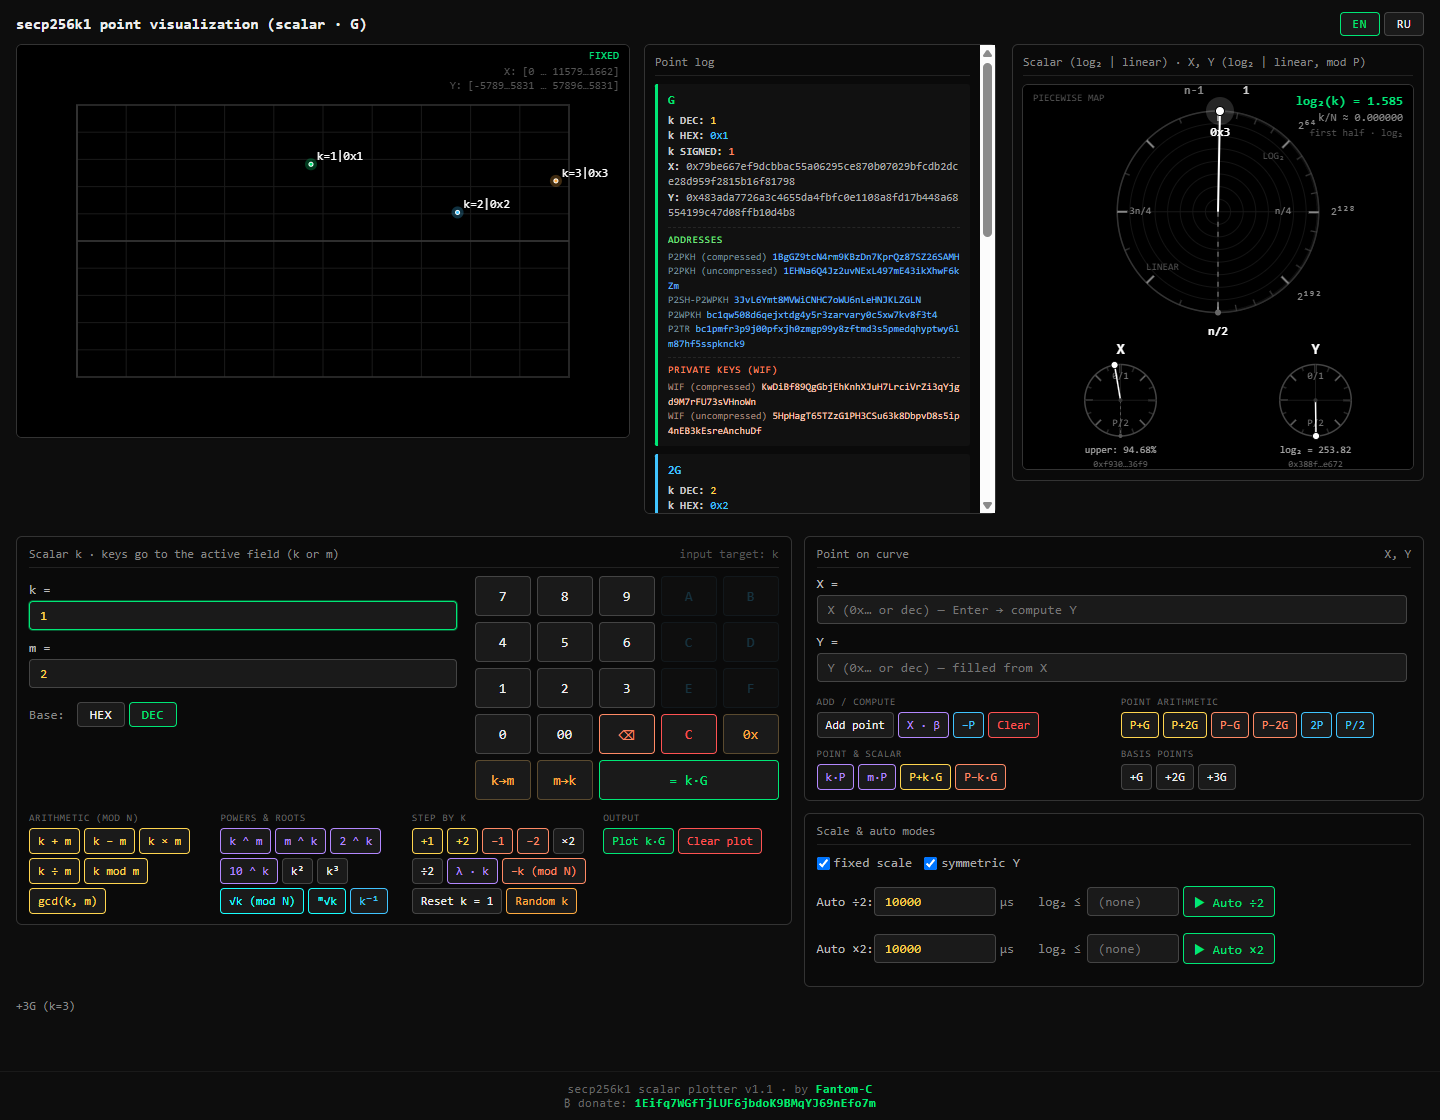
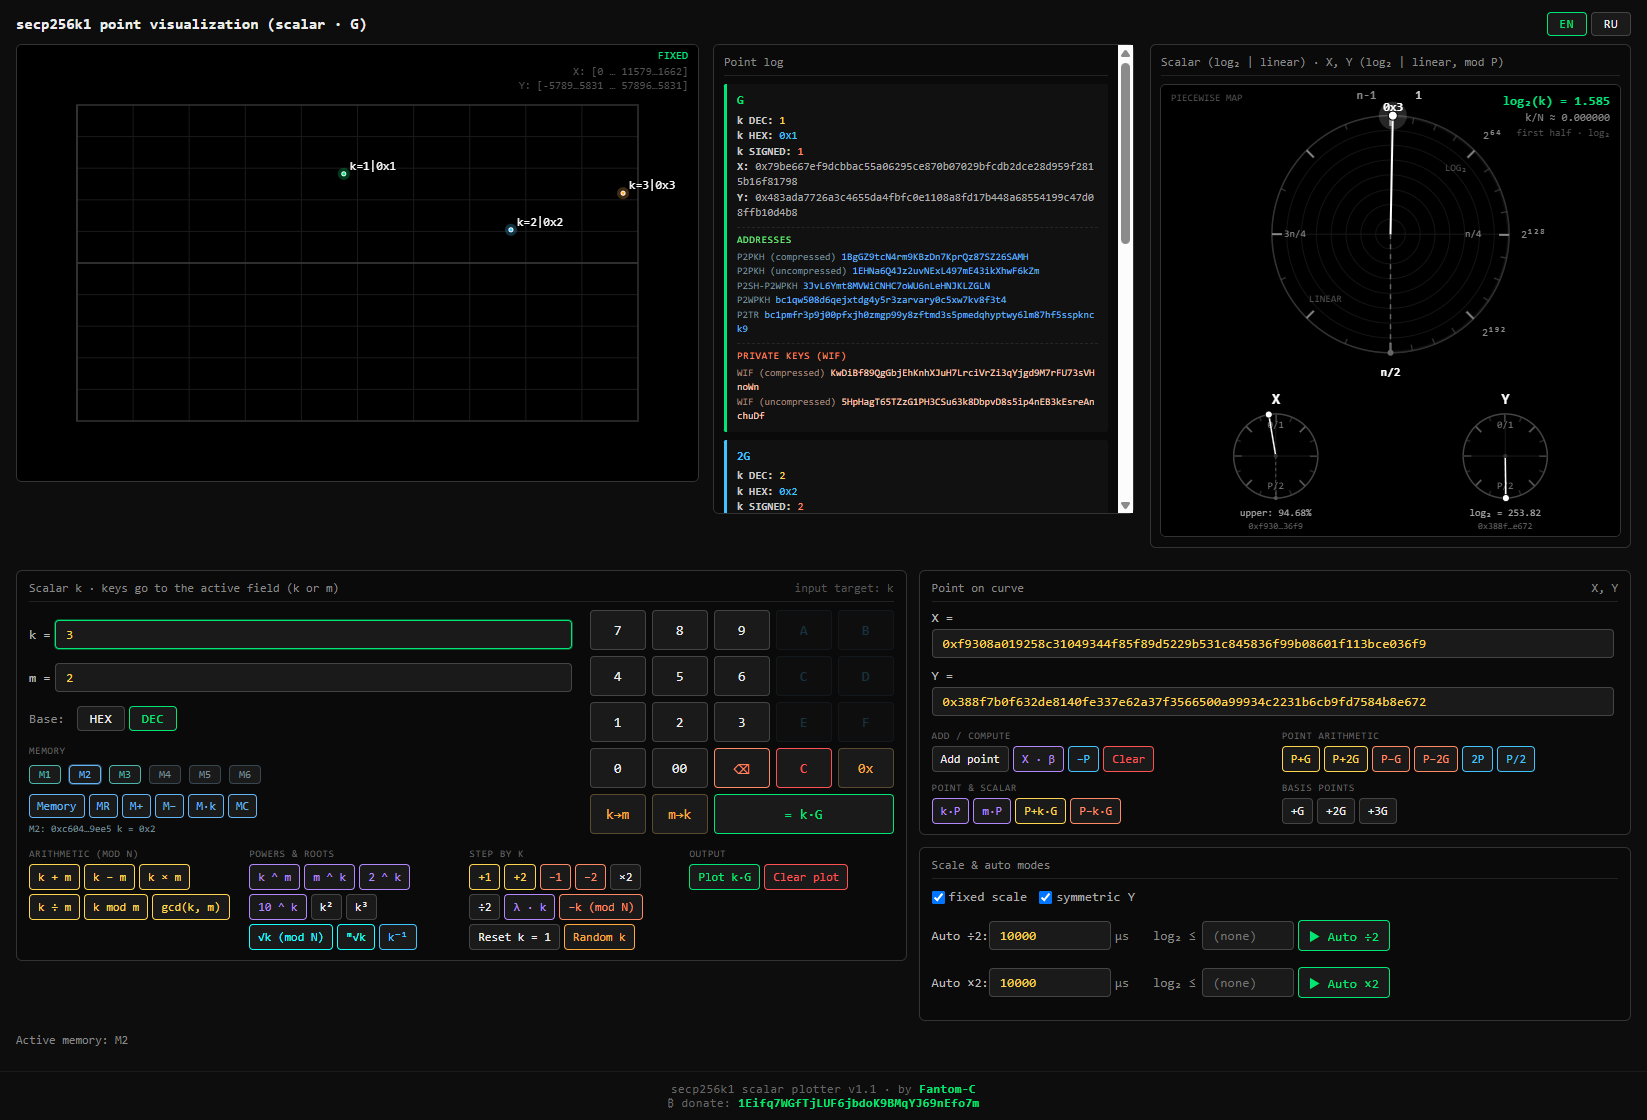
Add files via upload

diff --git a/index.html b/index.html
@@ -161,6 +161,23 @@
   }
   .op-buttons { display:flex; flex-wrap:wrap; gap:4px; }
   .op-buttons button { margin:0; padding:5px 8px; font-size:12px; }
+  .mem-group { margin-top:10px; }
+  .mem-slots { display:flex; gap:4px; flex-wrap:wrap; margin:0 0 6px; }
+  .mem-slot {
+    flex:0 0 auto; min-width:32px; padding:2px 6px; font-size:11px;
+    border-color:#37474f; color:#78909c;
+  }
+  .mem-slot.filled { border-color:#4db6ac; color:#4db6ac; }
+  .mem-slot.active {
+    border-color:#64b5f6; color:#64b5f6;
+    box-shadow:0 0 0 1px rgba(100,181,246,0.35);
+  }
+  .mem-buttons button { padding:4px 7px; }
+  .mem-info {
+    margin-top:4px; font-size:10px; line-height:1.4; color:#78909c;
+    word-break:break-all;
+  }
+  button.mem { border-color:#64b5f6; color:#64b5f6; }
   .op-grid {
     display:grid; grid-template-columns: repeat(4, minmax(0, 1fr));
     gap:10px 16px; margin-top:12px;
@@ -259,6 +276,27 @@
           <span class="unit">Основание:</span>
           <button id="baseHexBtn" class="base-btn" onclick="uiSetBase(16)">HEX</button>
           <button id="baseDecBtn" class="base-btn active" onclick="uiSetBase(10)">DEC</button>
+        </div>
+
+        <div class="op-group mem-group">
+          <span class="op-title">Память</span>
+          <div class="mem-slots" id="memSlots">
+            <button class="mem-slot active" onclick="uiMemSelect(0)">M1</button>
+            <button class="mem-slot" onclick="uiMemSelect(1)">M2</button>
+            <button class="mem-slot" onclick="uiMemSelect(2)">M3</button>
+            <button class="mem-slot" onclick="uiMemSelect(3)">M4</button>
+            <button class="mem-slot" onclick="uiMemSelect(4)">M5</button>
+            <button class="mem-slot" onclick="uiMemSelect(5)">M6</button>
+          </div>
+          <div class="op-buttons mem-buttons">
+            <button class="mem" onclick="uiMemStore()" title="Memory: сохранить точку текущего скаляра k·G в память и скопировать её в X/Y">Память</button>
+            <button class="mem" onclick="uiMemRecall()" title="MR: скопировать точку из памяти в поля X/Y">MR</button>
+            <button class="mem" onclick="uiMemAdd()" title="M+: прибавить k·G к точке в памяти и нарисовать результат (память не меняется)">M+</button>
+            <button class="mem" onclick="uiMemSub()" title="M−: вычесть k·G из точки в памяти и нарисовать результат (память не меняется)">M−</button>
+            <button class="mem" onclick="uiMemMulK()" title="M·k: умножить точку из памяти на текущий скаляр k и нарисовать результат (память не меняется)">M·k</button>
+            <button class="mem warn" onclick="uiMemClear()" title="MC: очистить память">MC</button>
+          </div>
+          <div id="memInfo" class="mem-info">M1: —</div>
         </div>
       </div>
       <div class="kp-pad" id="kpPad">
@@ -434,7 +472,7 @@
 <div id="status">Готово.</div>
 
 <div id="footer">
-  <div>secp256k1 scalar plotter v1.1 · by <b>Fantom-C</b></div>
+  <div>secp256k1 scalar plotter v1.2 · by <b>Fantom-C</b></div>
   <div class="donate">
     <span class="donate-label">₿ donate:</span>
     <span class="donate-addr"><b>1Eifq7WGfTjLUF6jbdoK9BMqYJ69nEfo7m<b></span>
@@ -1711,6 +1749,22 @@ const EN_STRINGS = {
     'Открыть на blockchain.com': 'Open on blockchain.com',
     'Приватные ключи (WIF)': 'Private keys (WIF)',
     'Приватный ключ — не показывайте никому': 'Private key — do not share with anyone',
+    'Память': 'Memory',
+    'Память: {1} = k·G': 'Memory: {1} = k·G',
+    'Активная память: {1}': 'Active memory: {1}',
+    'Ячейка памяти {1}': 'Memory slot {1}',
+    'Память {1} очищена': 'Memory {1} cleared',
+    'Память пуста': 'Memory slot is empty',
+    'Память очищена': 'Memory cleared',
+    'Скопировано из памяти в X/Y': 'Copied from memory to X/Y',
+    'M = ∞ (память пуста)': 'M = ∞ (memory cleared)',
+    'Memory: сохранить точку текущего скаляра k·G в память и скопировать её в X/Y': 'Memory: store the current scalar point k·G and copy it to X/Y',
+    'MR: скопировать точку из памяти в поля X/Y': 'MR: copy the memory point to the X/Y fields',
+    'M+: прибавить k·G к точке в памяти и нарисовать результат (память не меняется)': 'M+: add k·G to the memory point and draw the result (memory stays unchanged)',
+    'M−: вычесть k·G из точки в памяти и нарисовать результат (память не меняется)': 'M−: subtract k·G from the memory point and draw the result (memory stays unchanged)',
+    'M·k: умножить точку из памяти на текущий скаляр k и нарисовать результат (память не меняется)': 'M·k: multiply the memory point by the current scalar k and draw the result (memory stays unchanged)',
+    '(память не изменена)': '(memory unchanged)',
+    'MC: очистить память': 'MC: clear memory',
     'Нажмите, чтобы скопировать приватный ключ': 'Click to copy the private key',
     'Скопировано: {1}': 'Copied: {1}',
     'Не удалось скопировать': 'Copy failed',
@@ -1919,6 +1973,7 @@ function applyLanguage() {
     kpSetTarget(kpTargetEl || scalarIn);
     renderLegend(plotter.points);
     refreshAutoButtons();
+    updateMemButtons();
 }
 
 function setLang(lang) {
@@ -2154,6 +2209,13 @@ function uiRandomK() {
     } catch (e) { setStatus(t('Ошибка: ') + e.message); console.error(e); }
 }
 
+function findLoggedPointByX(x) {
+    for (let i = plotter.points.length - 1; i >= 0; i--) {
+        if (plotter.points[i].x === x) return plotter.points[i];
+    }
+    return null;
+}
+
 function uiXChanged() {
     const xs = document.getElementById('xIn').value.trim();
     if (!xs) return;
@@ -2163,26 +2225,47 @@ function uiXChanged() {
             setStatus(t('X должен быть в [0, P-1]'));
             return;
         }
-        const y = computeYFromX(x);
-        if (y === null) {
-            document.getElementById('yIn').value = '';
-            setStatus(
-                `X = 0x${x.toString(16)}\n` +
-                t('x³ + 7 не является квадратом mod P.') + '\n' +
-                t('Точки на кривой с таким X не существует.')
-            );
-            return;
+
+        const yEl = document.getElementById('yIn');
+        let yChoice = null;
+
+        if (yEl.value.trim()) {
+            try {
+                const yInput = plotter._parseBig(yEl.value.trim());
+                if (yInput >= 0n && yInput < P && mod(yInput * yInput, P) === mod(x * x * x + 7n, P)) {
+                    yChoice = yInput;
+                }
+            } catch (e) { /* ignore */ }
         }
-        const ySym = (y > P_HALF) ? (P - y) : y;
-        document.getElementById('yIn').value = '0x' + ySym.toString(16);
+
+        if (yChoice === null) {
+            const logged = findLoggedPointByX(x);
+            if (logged) {
+                yChoice = logged.y;
+            } else {
+                const y = computeYFromX(x);
+                if (y === null) {
+                    yEl.value = '';
+                    setStatus(
+                        `X = 0x${x.toString(16)}\n` +
+                        t('x³ + 7 не является квадратом mod P.') + '\n' +
+                        t('Точки на кривой с таким X не существует.')
+                    );
+                    return;
+                }
+                yChoice = (y > P_HALF) ? (P - y) : y;
+            }
+        }
+
+        yEl.value = '0x' + yChoice.toString(16);
 
         const label = `P${plotter.points.length + 1}`;
-        plotter.addPoint(x, ySym, label);
+        plotter.addPoint(x, yChoice, label);
         plotter.draw();
-        updateCircles(undefined, x, ySym);
+        updateCircles(undefined, x, yChoice);
         setStatus(
             `X = 0x${x.toString(16)}\n` +
-            t('Y = 0x{1}   (и −Y = 0x{2})', ySym.toString(16), (P - ySym).toString(16)) + '\n' +
+            t('Y = 0x{1}   (и −Y = 0x{2})', yChoice.toString(16), (P - yChoice).toString(16)) + '\n' +
             t('Точка на кривой. Автоматически добавлена как {1}.', label)
         );
     } catch (e) {
@@ -2351,6 +2434,141 @@ function uiPointHalf() {
     } catch (e) { setStatus(t('Ошибка: ') + e.message); console.error(e); }
 }
 
+const MEM_SLOT_COUNT = 6;
+const memSlots = new Array(MEM_SLOT_COUNT).fill(null);
+let memActive = 0;
+
+function memCurrent() { return memSlots[memActive]; }
+function memSlotLabel() { return 'M' + (memActive + 1); }
+
+function updateMemInfo() {
+    const el = document.getElementById('memInfo');
+    if (!el) return;
+    const slot = memCurrent();
+    const label = memSlotLabel();
+    if (!slot) { el.textContent = label + ': —'; return; }
+    const kStr = (slot.scalar === null || slot.scalar === undefined) ? '—' : shortHex(slot.scalar);
+    el.textContent = `${label}: ${shortHex(slot.x)}  k = ${kStr}`;
+}
+
+function updateMemButtons() {
+    const wrap = document.getElementById('memSlots');
+    if (!wrap) return;
+    [...wrap.children].forEach((btn, i) => {
+        btn.classList.toggle('active', i === memActive);
+        btn.classList.toggle('filled', !!memSlots[i]);
+        btn.title = t('Ячейка памяти {1}', i + 1);
+    });
+}
+
+function memSet(pt, scalar) {
+    memSlots[memActive] = pt
+        ? { x: pt.x, y: pt.y, scalar: (scalar === undefined ? null : scalar) }
+        : null;
+    updateMemInfo();
+    updateMemButtons();
+}
+
+function uiMemSelect(idx) {
+    if (idx < 0 || idx >= MEM_SLOT_COUNT) return;
+    memActive = idx;
+    updateMemInfo();
+    updateMemButtons();
+    setStatus(t('Активная память: {1}', memSlotLabel()));
+}
+
+function memCoords(pt) {
+    return `X = 0x${pt.x.toString(16)}\nY = 0x${pt.y.toString(16)}`;
+}
+
+function uiMemStore() {
+    try {
+        const k = readK();
+        const Pt = scalarMul(k);
+        if (!Pt) { setStatus(t('M = ∞ (память пуста)')); return; }
+        memSet(Pt, k);
+        document.getElementById('xIn').value = '0x' + Pt.x.toString(16);
+        document.getElementById('yIn').value = '0x' + Pt.y.toString(16);
+        updateCircles(k, Pt.x, Pt.y);
+        setStatus(
+            t('Память: {1} = k·G', memSlotLabel()) + '\n' +
+            scalarStatusBlock(k) + '\n' +
+            t('Скопировано из памяти в X/Y')
+        );
+    } catch (e) { setStatus(t('Ошибка: ') + e.message); console.error(e); }
+}
+
+function uiMemRecall() {
+    const slot = memCurrent();
+    if (!slot) { setStatus(t('Память пуста')); return; }
+    document.getElementById('xIn').value = '0x' + slot.x.toString(16);
+    document.getElementById('yIn').value = '0x' + slot.y.toString(16);
+    updateCircles(slot.scalar !== null && slot.scalar !== undefined ? slot.scalar : undefined, slot.x, slot.y);
+    setStatus(
+        t('Скопировано из памяти в X/Y') + '\n' +
+        memCoords(slot) +
+        (slot.scalar !== null && slot.scalar !== undefined ? '\n' + scalarStatusBlock(slot.scalar) : '')
+    );
+}
+
+function memAdjust(sign) {
+    try {
+        const k = readK();
+        const kG = scalarMul(k);
+        if (!kG) { setStatus('k·G = ∞ (k ≡ 0 mod N)'); return; }
+
+        const slotTag = memSlotLabel();
+        const label = sign > 0 ? slotTag + '+k·G' : slotTag + '−k·G';
+        const other = sign > 0 ? kG : pointNegate(kG);
+        const delta = sign > 0 ? k : mod(-k, N);
+        const slot = memCurrent();
+
+        if (!slot) {
+            memSet(other, delta);
+            updateXYAndAdd(other, label, delta);
+            pointStatus(label, other, delta);
+            return;
+        }
+
+        const res = pointAddAffine(slot, other);
+        if (!res) {
+            setStatus(label + ' = ∞ ' + t('(память не изменена)'));
+            return;
+        }
+
+        let ns = null;
+        if (slot.scalar !== null && slot.scalar !== undefined) {
+            ns = mod(slot.scalar + delta, N);
+        }
+        updateXYAndAdd(res, label, ns);
+        pointStatus(label, res, ns);
+    } catch (e) { setStatus(t('Ошибка: ') + e.message); console.error(e); }
+}
+
+function uiMemAdd() { memAdjust(1); }
+function uiMemSub() { memAdjust(-1); }
+
+function uiMemMulK() {
+    try {
+        const slot = memCurrent();
+        if (!slot) { setStatus(t('Память пуста')); return; }
+        const k = readK();
+        const label = memSlotLabel() + '·k';
+        const res = scalarMul(k, slot);
+        if (!res) { setStatus(label + ' = ∞ ' + t('(память не изменена)')); return; }
+        let ns = null;
+        if (slot.scalar !== null && slot.scalar !== undefined) ns = mod(slot.scalar * k, N);
+        updateXYAndAdd(res, label, ns);
+        pointStatus(label, res, ns);
+    } catch (e) { setStatus(t('Ошибка: ') + e.message); console.error(e); }
+}
+
+function uiMemClear() {
+    const label = memSlotLabel();
+    memSet(null, null);
+    setStatus(t('Память {1} очищена', label));
+}
+
 function getEnteredPoint() {
     const xs = document.getElementById('xIn').value.trim();
     const ys = document.getElementById('yIn').value.trim();
@@ -2365,9 +2583,14 @@ function getEnteredPoint() {
             throw new Error(t('Точка (x, y) не лежит на кривой'));
         }
     } else {
-        const yy = computeYFromX(x);
-        if (yy === null) throw new Error(t('Точки на кривой с таким X не существует.'));
-        y = (yy > P_HALF) ? (P - yy) : yy;
+        const logged = findLoggedPointByX(x);
+        if (logged) {
+            y = logged.y;
+        } else {
+            const yy = computeYFromX(x);
+            if (yy === null) throw new Error(t('Точки на кривой с таким X не существует.'));
+            y = (yy > P_HALF) ? (P - yy) : yy;
+        }
         document.getElementById('yIn').value = '0x' + y.toString(16);
     }
     let scalar = null;

diff --git a/README.md b/README.md
@@ -19,7 +19,8 @@ Browser-only **secp256k1** scalar calculator and point visualizer. Single self-c
 - **Scalar `k`**: `k·G`, `k ± m`, `k × m`, `k ÷ m`, `k mod m`, `gcd(k, m)`, `k^m`, `m^k`, `2^k`, `10^k`, `k²`, `k³`, `√k (mod N)`, `ᵐ√k`, `k⁻¹`, `−k`, `λ·k`.
 - **Cryptographically strong random `k`** (`crypto.getRandomValues`, rejection sampling in `[1, N−1]`).
 - **On-screen keypad** for `k` and `m`: `0–9`, `A–F`, `⌫`, `C`, `0x`, `k→m`, `m→k`, HEX/DEC.
-- **Point operations**: `P±G`, `P±2G`, `2P`, `P/2`, `k·P`, `m·P`, `P±k·G`, `X·β`; manual `X`/`Y` input with **automatic Y calculation** (enter X → Y is derived as the symmetric root) and on-curve validation.
+- **Point operations**: `P±G`, `P±2G`, `2P`, `P/2`, `k·P`, `m·P`, `P±k·G`, `X·β`; manual `X`/`Y` input with **automatic Y calculation** (enter X → Y is taken from a matching logged point, otherwise derived) and on-curve validation.
+- **Memory (6 slots M1–M6)**: select a slot, store the current `k·G` point (also copied to X/Y), recall it, add/subtract `k·G` to/from the selected slot's point, multiply it by `k`; results are drawn on the plot and added to the log. A stored slot is not overwritten by these operations — it changes only via **Memory** (store) or **MC** (clear).
 - **Point log** with `k` (DEC/HEX/SIGNED), `X`, `Y` and Bitcoin data:
   - **P2PKH** (compressed/uncompressed), **P2SH-P2WPKH**, **P2WPKH**, **P2TR**;
   - **WIF** private keys (compressed/uncompressed) when the point scalar is known;
@@ -29,7 +30,7 @@ Browser-only **secp256k1** scalar calculator and point visualizer. Single self-c
 
 ### Run
 
-Open `calc.html` (or `index.html`) in a browser. Nothing else is required.
+Open `index.html` in a browser. Nothing else is required.
 
 ### Security warning
 
@@ -58,7 +59,8 @@ If you find this project useful, you can support it:
 - **Скаляр `k`**: `k·G`, `k ± m`, `k × m`, `k ÷ m`, `k mod m`, `gcd(k, m)`, `k^m`, `m^k`, `2^k`, `10^k`, `k²`, `k³`, `√k (mod N)`, `ᵐ√k`, `k⁻¹`, `−k`, `λ·k`.
 - **Криптостойкий случайный `k`** (`crypto.getRandomValues`, rejection sampling в `[1, N−1]`).
 - **Экранная клавиатура** для `k` и `m`: `0–9`, `A–F`, `⌫`, `C`, `0x`, `k→m`, `m→k`, HEX/DEC.
-- **Операции с точкой**: `P±G`, `P±2G`, `2P`, `P/2`, `k·P`, `m·P`, `P±k·G`, `X·β`, ручной ввод `X`/`Y` с **автоматическим расчётом Y** (по `X` вычисляется Y как симметричный корень) и проверкой принадлежности точки кривой.
+- **Операции с точкой**: `P±G`, `P±2G`, `2P`, `P/2`, `k·P`, `m·P`, `P±k·G`, `X·β`, ручной ввод `X`/`Y` с **автоматическим расчётом Y** (по `X` берётся Y совпадающей точки из лога, иначе вычисляется) и проверкой принадлежности точки кривой.
+- **Память (6 ячеек M1–M6)**: выберите ячейку, сохраните текущую точку `k·G` (сразу копируется в X/Y), выведите её обратно, прибавьте/вычтите `k·G` к/из точки выбранной ячейки, умножьте её на `k`; результаты рисуются на графике и добавляются в лог. Точка в ячейке при этих операциях не перезаписывается — изменить её можно только кнопкой **Память** (сохранить) или **MC** (очистить).
 - **Лог точек** с `k` (DEC/HEX/SIGNED), `X`, `Y` и данными Bitcoin:
   - **P2PKH** (compressed/uncompressed), **P2SH-P2WPKH**, **P2WPKH**, **P2TR**;
   - **WIF** приватные ключи (compressed/uncompressed), если скаляр точки известен;
@@ -68,7 +70,7 @@ If you find this project useful, you can support it:
 
 ### Запуск
 
-Откройте `calc.html` (или `index.html`) в браузере — больше ничего не нужно.
+Откройте `index.html` в браузере — больше ничего не нужно.
 
 ### Безопасность
 
